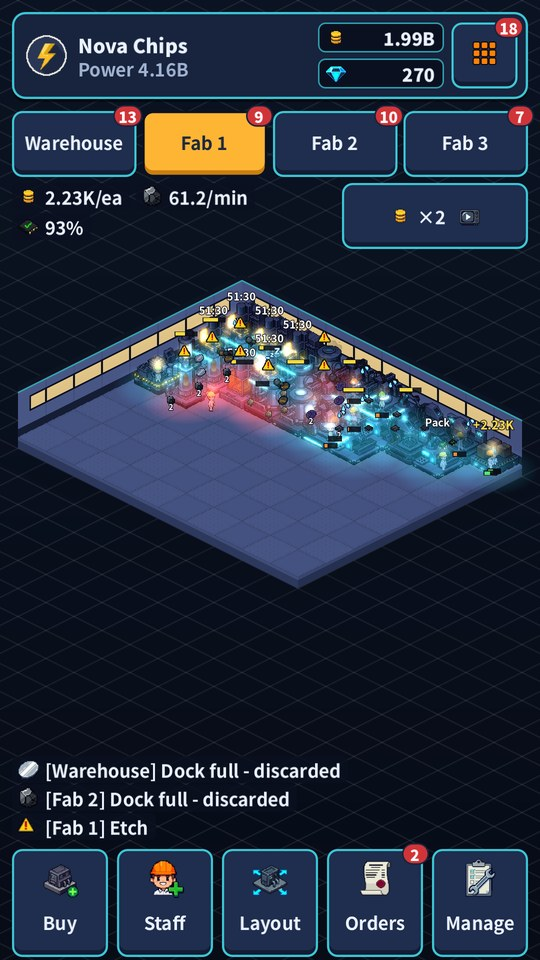
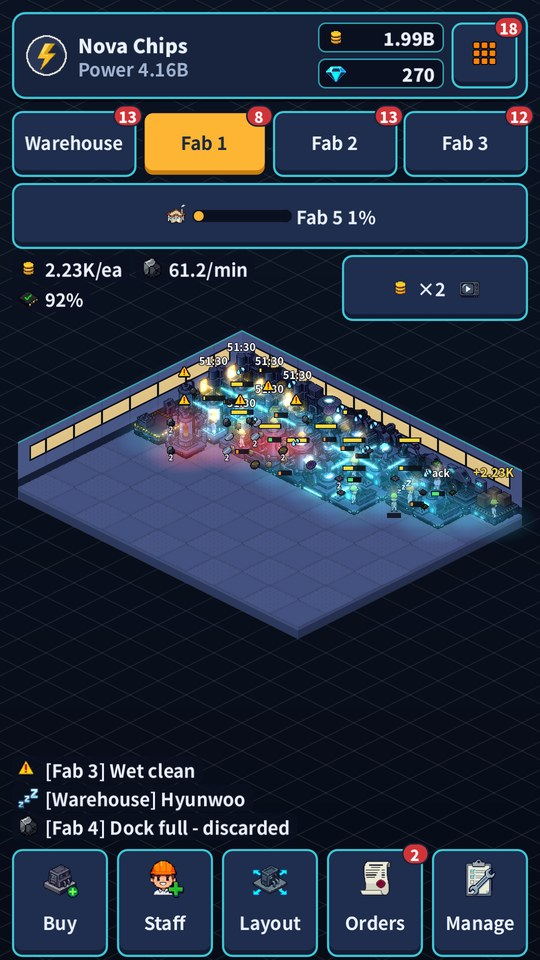
gs2 갱신 2026-11-28

diff --git a/gs2/en/index.html b/gs2/en/index.html
@@ -38,12 +38,12 @@
     <div class="feature"><h3>Rankings and cloud backup</h3><p>Compare your factory&#x27;s power with other companies. Carry on on a new phone with a single backup code.</p></div>
   </div>
   <div class="shots">
-    <a href="../../gs2/img/screens/en/1-fab4_day.jpg" target="_blank"><img src="../../gs2/img/screens/en/1-fab4_day.jpg" alt="Growing Semiconductors 2 screenshot 1" width="540" height="960" loading="lazy"></a>
+    <a href="../../gs2/img/screens/en/1-day_fab5.jpg" target="_blank"><img src="../../gs2/img/screens/en/1-day_fab5.jpg" alt="Growing Semiconductors 2 screenshot 1" width="540" height="960" loading="lazy"></a>
     <a href="../../gs2/img/screens/en/2-zoom_sub.jpg" target="_blank"><img src="../../gs2/img/screens/en/2-zoom_sub.jpg" alt="Growing Semiconductors 2 screenshot 2" width="540" height="960" loading="lazy"></a>
     <a href="../../gs2/img/screens/en/3-fab_night.jpg" target="_blank"><img src="../../gs2/img/screens/en/3-fab_night.jpg" alt="Growing Semiconductors 2 screenshot 3" width="540" height="960" loading="lazy"></a>
     <a href="../../gs2/img/screens/en/4-layout_fab4.jpg" target="_blank"><img src="../../gs2/img/screens/en/4-layout_fab4.jpg" alt="Growing Semiconductors 2 screenshot 4" width="540" height="960" loading="lazy"></a>
     <a href="../../gs2/img/screens/en/5-staff_day.jpg" target="_blank"><img src="../../gs2/img/screens/en/5-staff_day.jpg" alt="Growing Semiconductors 2 screenshot 5" width="540" height="960" loading="lazy"></a>
-    <a href="../../gs2/img/screens/en/6-manage_fab4.jpg" target="_blank"><img src="../../gs2/img/screens/en/6-manage_fab4.jpg" alt="Growing Semiconductors 2 screenshot 6" width="540" height="960" loading="lazy"></a>
+    <a href="../../gs2/img/screens/en/6-manage_fab5.jpg" target="_blank"><img src="../../gs2/img/screens/en/6-manage_fab5.jpg" alt="Growing Semiconductors 2 screenshot 6" width="540" height="960" loading="lazy"></a>
     <a href="../../gs2/img/screens/en/7-orders_day.jpg" target="_blank"><img src="../../gs2/img/screens/en/7-orders_day.jpg" alt="Growing Semiconductors 2 screenshot 7" width="540" height="960" loading="lazy"></a>
     <a href="../../gs2/img/screens/en/8-offline_day.jpg" target="_blank"><img src="../../gs2/img/screens/en/8-offline_day.jpg" alt="Growing Semiconductors 2 screenshot 8" width="540" height="960" loading="lazy"></a>
   </div>

diff --git a/gs2/index.html b/gs2/index.html
@@ -38,12 +38,12 @@
     <div class="feature"><h3>랭킹과 클라우드 백업</h3><p>다른 회사와 공장의 힘을 겨룹니다. 백업 코드 하나로 새 폰에서 이어 할 수 있습니다.</p></div>
   </div>
   <div class="shots">
-    <a href="../gs2/img/screens/ko/1-fab4_day.jpg" target="_blank"><img src="../gs2/img/screens/ko/1-fab4_day.jpg" alt="반도체 키우기 2 스크린샷 1" width="540" height="960" loading="lazy"></a>
+    <a href="../gs2/img/screens/ko/1-day_fab5.jpg" target="_blank"><img src="../gs2/img/screens/ko/1-day_fab5.jpg" alt="반도체 키우기 2 스크린샷 1" width="540" height="960" loading="lazy"></a>
     <a href="../gs2/img/screens/ko/2-zoom_sub.jpg" target="_blank"><img src="../gs2/img/screens/ko/2-zoom_sub.jpg" alt="반도체 키우기 2 스크린샷 2" width="540" height="960" loading="lazy"></a>
     <a href="../gs2/img/screens/ko/3-fab_night.jpg" target="_blank"><img src="../gs2/img/screens/ko/3-fab_night.jpg" alt="반도체 키우기 2 스크린샷 3" width="540" height="960" loading="lazy"></a>
     <a href="../gs2/img/screens/ko/4-layout_fab4.jpg" target="_blank"><img src="../gs2/img/screens/ko/4-layout_fab4.jpg" alt="반도체 키우기 2 스크린샷 4" width="540" height="960" loading="lazy"></a>
     <a href="../gs2/img/screens/ko/5-staff_day.jpg" target="_blank"><img src="../gs2/img/screens/ko/5-staff_day.jpg" alt="반도체 키우기 2 스크린샷 5" width="540" height="960" loading="lazy"></a>
-    <a href="../gs2/img/screens/ko/6-manage_fab4.jpg" target="_blank"><img src="../gs2/img/screens/ko/6-manage_fab4.jpg" alt="반도체 키우기 2 스크린샷 6" width="540" height="960" loading="lazy"></a>
+    <a href="../gs2/img/screens/ko/6-manage_fab5.jpg" target="_blank"><img src="../gs2/img/screens/ko/6-manage_fab5.jpg" alt="반도체 키우기 2 스크린샷 6" width="540" height="960" loading="lazy"></a>
     <a href="../gs2/img/screens/ko/7-orders_day.jpg" target="_blank"><img src="../gs2/img/screens/ko/7-orders_day.jpg" alt="반도체 키우기 2 스크린샷 7" width="540" height="960" loading="lazy"></a>
     <a href="../gs2/img/screens/ko/8-offline_day.jpg" target="_blank"><img src="../gs2/img/screens/ko/8-offline_day.jpg" alt="반도체 키우기 2 스크린샷 8" width="540" height="960" loading="lazy"></a>
   </div>
